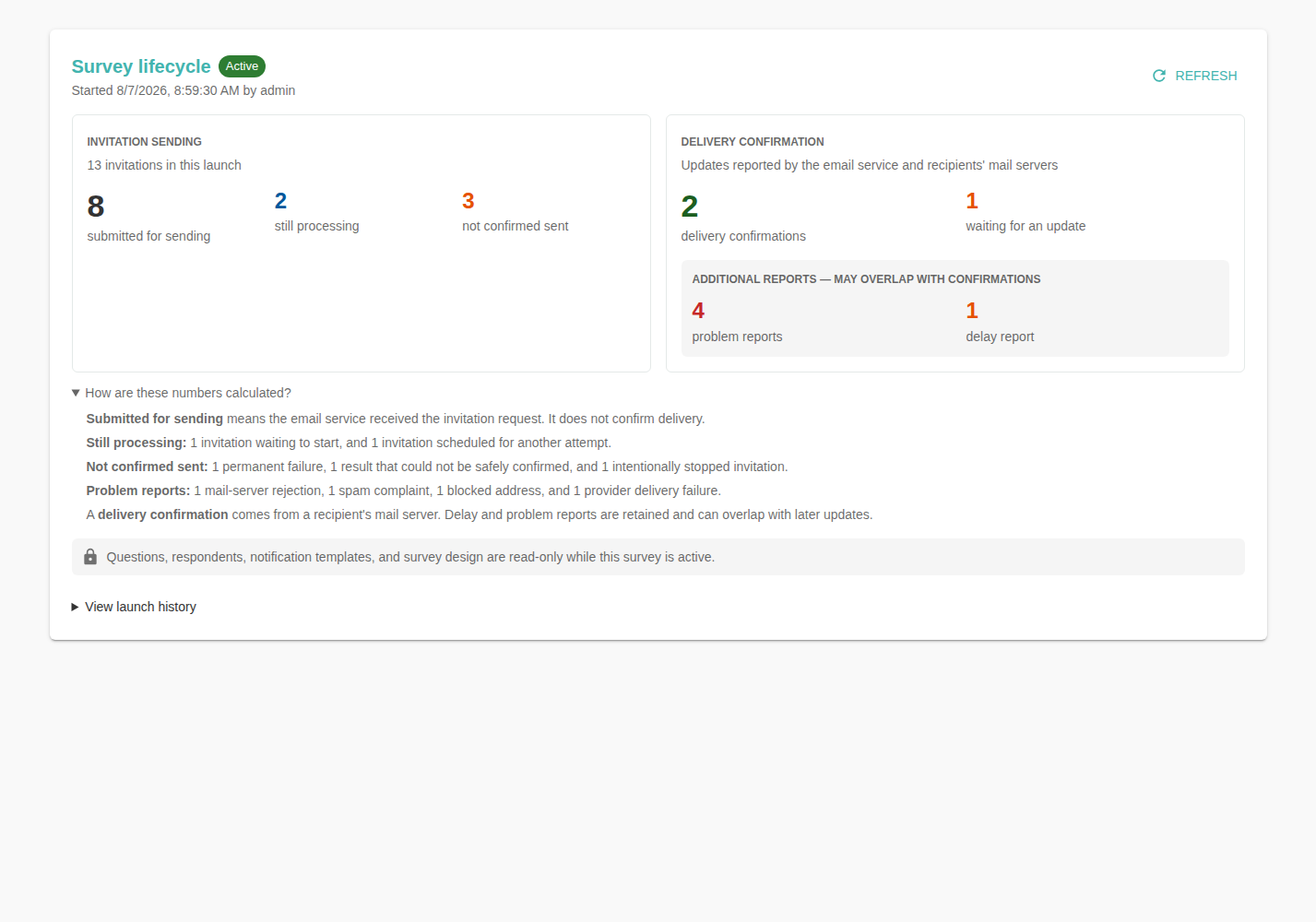
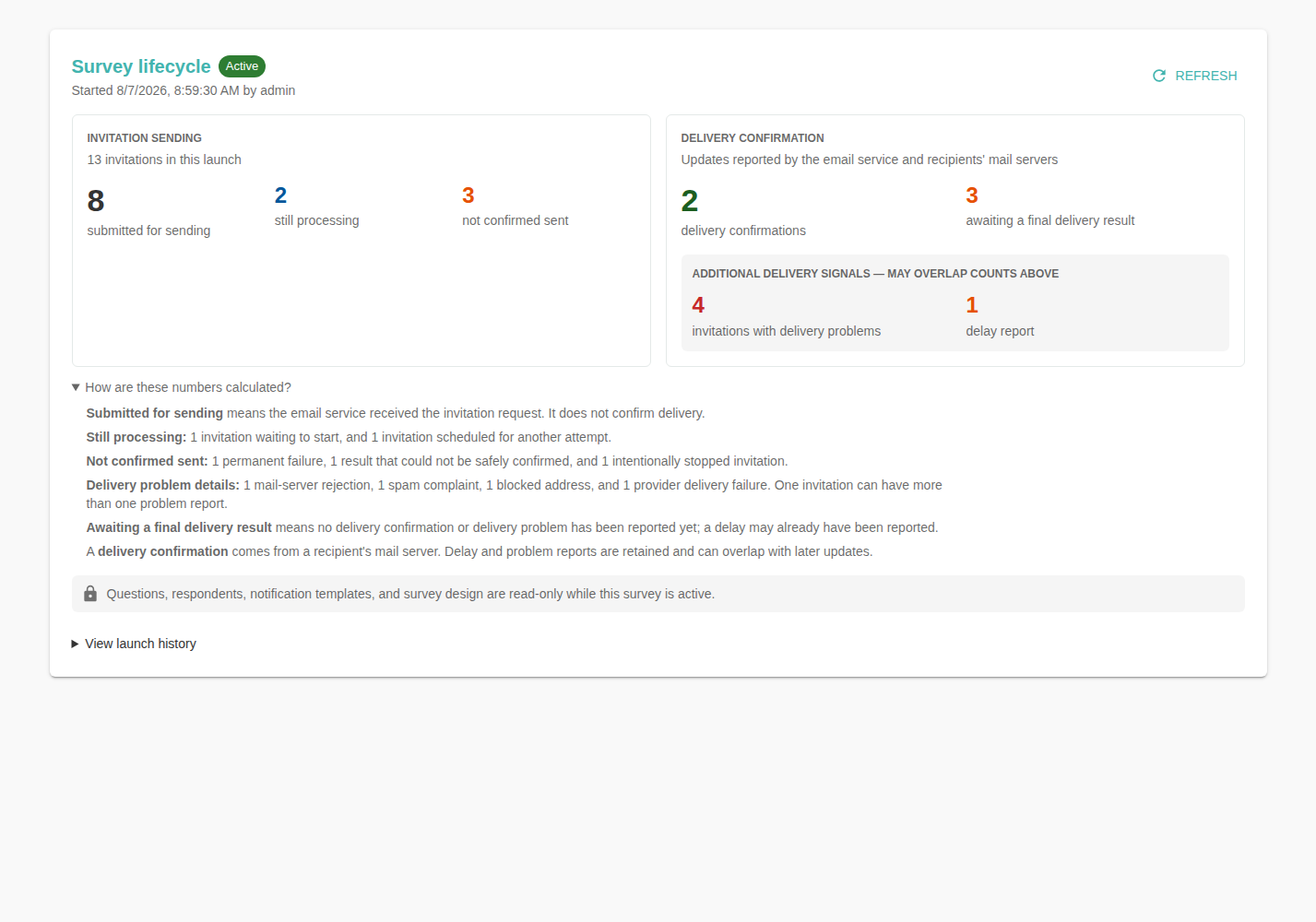
Harden delivery summaries after adversarial review

diff --git a/dashboard/src/components/SurveyLifecyclePanel.js b/dashboard/src/components/SurveyLifecyclePanel.js
@@ -20,7 +20,7 @@ const Metric = ({ value, label, singularLabel, emphasis = false, color = 'text.p
   const displayedLabel = value === 1 && singularLabel ? singularLabel : label;
   return (
     <Box aria-label={`${value} ${displayedLabel}`} sx={{ minWidth: 0 }}>
-      <Typography variant={emphasis ? 'h4' : 'h5'} color={color} sx={{ fontWeight: 700, lineHeight: 1.1 }}>{value}</Typography>
+      <Typography component="p" variant={emphasis ? 'h4' : 'h5'} color={color} sx={{ fontWeight: 700, lineHeight: 1.1 }}>{value}</Typography>
       <Typography variant="body2" color="text.secondary" sx={{ mt: 0.5 }}>{displayedLabel}</Typography>
     </Box>
   );
@@ -28,7 +28,7 @@ const Metric = ({ value, label, singularLabel, emphasis = false, color = 'text.p
 
 const SummaryCard = ({ title, supporting, children, ariaLabel }) => (
   <Paper component="section" aria-label={ariaLabel} variant="outlined" sx={{ p: 2, minWidth: 0 }}>
-    <Typography variant="overline" color="text.secondary" sx={{ fontWeight: 700, lineHeight: 1.5 }}>{title}</Typography>
+    <Typography component="h3" variant="overline" color="text.secondary" sx={{ display: 'block', fontWeight: 700, lineHeight: 1.5 }}>{title}</Typography>
     <Typography variant="body2" color="text.secondary" sx={{ mt: 0.5 }}>{supporting}</Typography>
     {children}
   </Paper>
@@ -60,7 +60,8 @@ const PlainLanguageBreakdown = ({ counts, outcomes }) => {
       <Typography variant="body2"><strong>Submitted for sending</strong> means the email service received the invitation request. It does not confirm delivery.</Typography>
       <Typography variant="body2" sx={{ mt: 0.75 }}><strong>Still processing:</strong> {processing.length ? joinDescriptions(processing) : 'none'}.</Typography>
       <Typography variant="body2" sx={{ mt: 0.75 }}><strong>Not confirmed sent:</strong> {notConfirmed.length ? joinDescriptions(notConfirmed) : 'none'}.</Typography>
-      <Typography variant="body2" sx={{ mt: 0.75 }}><strong>Problem reports:</strong> {problems.length ? joinDescriptions(problems) : 'none'}.</Typography>
+      <Typography variant="body2" sx={{ mt: 0.75 }}><strong>Delivery problem details:</strong> {problems.length ? joinDescriptions(problems) : 'none'}. One invitation can have more than one problem report.</Typography>
+      <Typography variant="body2" sx={{ mt: 0.75 }}><strong>Awaiting a final delivery result</strong> means no delivery confirmation or delivery problem has been reported yet; a delay may already have been reported.</Typography>
       <Typography variant="body2" sx={{ mt: 0.75 }}>A <strong>delivery confirmation</strong> comes from a recipient's mail server. Delay and problem reports are retained and can overlap with later updates.</Typography>
     </Box>
   );
@@ -132,7 +133,7 @@ const SurveyLifecyclePanel = ({ survey, onSurveyRefresh, refreshToken = 0 }) => 
   const latest = visibleLaunches[0] || survey.latestLaunch || survey.latest_launch;
   const counts = launchCounts(latest);
   const outcomes = providerCounts(latest);
-  const adverse = outcomes.bounced + outcomes.complained + outcomes.suppressed + outcomes.providerFailed;
+  const adverse = outcomes.problems;
   const inProgress = counts.pending + counts.leased + counts.retryWait;
   const manualRefresh = () => setManualRefreshToken((value) => value + 1);
 
@@ -141,7 +142,7 @@ const SurveyLifecyclePanel = ({ survey, onSurveyRefresh, refreshToken = 0 }) => 
       <Stack direction={{ xs: 'column', sm: 'row' }} justifyContent="space-between" spacing={2}>
         <Box>
           <Stack direction="row" alignItems="center" spacing={1}>
-            <Typography variant="h6">Survey lifecycle</Typography>
+            <Typography component="h2" variant="h6">Survey lifecycle</Typography>
             <LifecycleChip status={lifecycleStatus(survey)} />
           </Stack>
           <Typography variant="body2" color="text.secondary">
@@ -162,7 +163,7 @@ const SurveyLifecyclePanel = ({ survey, onSurveyRefresh, refreshToken = 0 }) => 
             supporting={`${counts.target} invitations in this launch`}
             ariaLabel="Invitation sending summary"
           >
-            <Box sx={{ display: 'grid', gridTemplateColumns: 'repeat(3, minmax(0, 1fr))', gap: 2, mt: 2 }}>
+            <Box sx={{ display: 'grid', gridTemplateColumns: { xs: '1fr', sm: 'repeat(3, minmax(0, 1fr))' }, gap: 2, mt: 2 }}>
               <Metric value={counts.accepted} label="submitted for sending" emphasis />
               <Metric value={inProgress} label="still processing" color={inProgress > 0 ? 'info.dark' : 'text.primary'} />
               <Metric value={counts.failed + counts.uncertain + counts.cancelled} label="not confirmed sent" color={counts.failed + counts.uncertain + counts.cancelled > 0 ? 'warning.dark' : 'text.primary'} />
@@ -174,14 +175,14 @@ const SurveyLifecyclePanel = ({ survey, onSurveyRefresh, refreshToken = 0 }) => 
             supporting="Updates reported by the email service and recipients' mail servers"
             ariaLabel="Delivery confirmation summary"
           >
-            <Box sx={{ display: 'grid', gridTemplateColumns: 'repeat(2, minmax(0, 1fr))', gap: 3, mt: 2 }}>
+            <Box sx={{ display: 'grid', gridTemplateColumns: { xs: '1fr', sm: 'repeat(2, minmax(0, 1fr))' }, gap: 3, mt: 2 }}>
               <Metric value={outcomes.delivered} label="delivery confirmations" singularLabel="delivery confirmation" emphasis color={outcomes.delivered > 0 ? 'success.dark' : 'text.primary'} />
-              <Metric value={outcomes.acceptedUnverified} label="waiting for an update" color={outcomes.acceptedUnverified > 0 ? 'warning.dark' : 'text.primary'} />
+              <Metric value={outcomes.waiting} label="awaiting a final delivery result" color={outcomes.waiting > 0 ? 'warning.dark' : 'text.primary'} />
             </Box>
             <Box sx={{ mt: 2, p: 1.5, borderRadius: 1, bgcolor: 'action.hover' }}>
-              <Typography variant="caption" color="text.secondary" sx={{ display: 'block', fontWeight: 700 }}>ADDITIONAL REPORTS — MAY OVERLAP WITH CONFIRMATIONS</Typography>
-              <Box sx={{ display: 'grid', gridTemplateColumns: 'repeat(2, minmax(0, 1fr))', gap: 3, mt: 1.25 }}>
-                <Metric value={adverse} label="problem reports" singularLabel="problem report" color={adverse > 0 ? 'error.dark' : 'text.primary'} />
+              <Typography variant="caption" color="text.secondary" sx={{ display: 'block', fontWeight: 700 }}>ADDITIONAL DELIVERY SIGNALS — MAY OVERLAP COUNTS ABOVE</Typography>
+              <Box sx={{ display: 'grid', gridTemplateColumns: { xs: '1fr', sm: 'repeat(2, minmax(0, 1fr))' }, gap: 3, mt: 1.25 }}>
+                <Metric value={adverse} label="invitations with delivery problems" singularLabel="invitation with a delivery problem" color={adverse > 0 ? 'error.dark' : 'text.primary'} />
                 <Metric value={outcomes.delayed} label="delay reports" singularLabel="delay report" color={outcomes.delayed > 0 ? 'warning.dark' : 'text.primary'} />
               </Box>
             </Box>
@@ -190,6 +191,9 @@ const SurveyLifecyclePanel = ({ survey, onSurveyRefresh, refreshToken = 0 }) => 
         <Box component="details" aria-label="Current launch explanation" sx={{ mt: 1.5, color: 'text.secondary', '& summary': { cursor: 'pointer', width: 'fit-content' } }}>
           <Typography component="summary" variant="body2">How are these numbers calculated?</Typography>
           <PlainLanguageBreakdown counts={counts} outcomes={outcomes} />
+        </Box>
+        <Box role="status" aria-live="polite" aria-atomic="true" sx={{ position: 'absolute', width: '1px', height: '1px', p: 0, m: -1, overflow: 'hidden', clip: 'rect(0 0 0 0)', whiteSpace: 'nowrap', border: 0 }}>
+          Invitation update: {counts.accepted} submitted for sending, {inProgress} still processing, {counts.failed + counts.uncertain + counts.cancelled} not confirmed sent. Delivery update: {countLabel(outcomes.delivered, 'confirmation')}, {countLabel(outcomes.waiting, 'invitation awaiting a final result', 'invitations awaiting a final result')}, {countLabel(adverse, 'invitation with a delivery problem', 'invitations with delivery problems')}, {countLabel(outcomes.delayed, 'delay report')}.
         </Box>
       </Box>}
 
@@ -206,7 +210,7 @@ const SurveyLifecyclePanel = ({ survey, onSurveyRefresh, refreshToken = 0 }) => 
           {visibleLaunches.map((launch, index) => {
             const rowCounts = launchCounts(launch);
             const rowOutcomes = providerCounts(launch);
-            const rowAdverse = rowOutcomes.bounced + rowOutcomes.complained + rowOutcomes.suppressed + rowOutcomes.providerFailed;
+            const rowAdverse = rowOutcomes.problems;
             return (
               <Paper component="details" variant="outlined" key={launch.id || launch.launchId || index} sx={{ p: 1.5, '& summary': { cursor: 'pointer' } }}>
                 <Typography component="summary" variant="body2" fontWeight={600}>
@@ -214,13 +218,13 @@ const SurveyLifecyclePanel = ({ survey, onSurveyRefresh, refreshToken = 0 }) => 
                 </Typography>
                 <Box sx={{ mt: 1.5, p: 1.5, borderRadius: 1, bgcolor: 'action.hover' }}>
                   <Typography variant="caption" color="text.secondary" sx={{ fontWeight: 700 }}>DELIVERY UPDATES</Typography>
-                  <Box sx={{ display: 'grid', gridTemplateColumns: { xs: 'repeat(2, minmax(0, 1fr))', md: 'repeat(4, minmax(0, 1fr))' }, gap: 2, mt: 1 }}>
+                  <Box sx={{ display: 'grid', gridTemplateColumns: { xs: '1fr', sm: 'repeat(2, minmax(0, 1fr))', md: 'repeat(4, minmax(0, 1fr))' }, gap: 2, mt: 1 }}>
                     <Metric value={rowOutcomes.delivered} label="delivery confirmations" singularLabel="delivery confirmation" />
-                    <Metric value={rowOutcomes.acceptedUnverified} label="waiting for an update" />
-                    <Metric value={rowAdverse} label="problem reports" singularLabel="problem report" />
+                    <Metric value={rowOutcomes.waiting} label="awaiting a final delivery result" />
+                    <Metric value={rowAdverse} label="invitations with delivery problems" singularLabel="invitation with a delivery problem" />
                     <Metric value={rowOutcomes.delayed} label="delay reports" singularLabel="delay report" />
                   </Box>
-                  <Typography variant="caption" color="text.secondary" sx={{ display: 'block', mt: 1 }}>Problem and delay reports can overlap with confirmations.</Typography>
+                  <Typography variant="caption" color="text.secondary" sx={{ display: 'block', mt: 1 }}>One invitation can have multiple problem or delay reports, and those reports can overlap other delivery update counts.</Typography>
                 </Box>
                 <PlainLanguageBreakdown counts={rowCounts} outcomes={rowOutcomes} />
               </Paper>

diff --git a/dashboard/src/components/SurveyTable.js b/dashboard/src/components/SurveyTable.js
@@ -39,16 +39,16 @@ const SurveyTable = ({
         const latest = row.latestLaunch || row.latest_launch;
         if (!latest) return <Typography variant="body2" color="text.secondary">Not launched</Typography>;
         const counts = launchCounts(latest);
-        const active = counts.pending + counts.leased + counts.retryWait;
-        const issues = counts.failed + counts.uncertain + counts.cancelled;
+        const processing = counts.pending + counts.leased + counts.retryWait;
+        const notConfirmed = counts.failed + counts.uncertain + counts.cancelled;
         const details = `${counts.target} targets: ${counts.pending} pending, ${counts.leased} sending, ${counts.retryWait} retrying, ${counts.accepted} accepted, ${counts.failed} failed, ${counts.uncertain} uncertain, ${counts.cancelled} cancelled.`;
         return <Tooltip title={details} arrow>
           <Stack spacing={0.25} justifyContent="center" aria-label={details} tabIndex={hasFocus ? 0 : -1} sx={{ minWidth: 0 }}>
-            <Typography variant="body2" fontWeight={600} noWrap>{counts.accepted} / {counts.target} accepted</Typography>
+            <Typography variant="body2" fontWeight={600} noWrap>{counts.accepted} / {counts.target} submitted</Typography>
             <Stack direction="row" spacing={0.5}>
-              {active > 0 && <Chip size="small" variant="outlined" color="info" label={`${active} active`} sx={{ height: 20 }} />}
-              {issues > 0 && <Chip size="small" variant="outlined" color="warning" label={`${issues} ${issues === 1 ? 'issue' : 'issues'}`} sx={{ height: 20 }} />}
-              {active === 0 && issues === 0 && <Chip size="small" variant="outlined" color="success" label="Complete" sx={{ height: 20 }} />}
+              {processing > 0 && <Chip size="small" variant="outlined" color="info" label={`${processing} processing`} sx={{ height: 20 }} />}
+              {notConfirmed > 0 && <Chip size="small" variant="outlined" color="warning" label={`${notConfirmed} not confirmed`} sx={{ height: 20 }} />}
+              {processing === 0 && notConfirmed === 0 && <Chip size="small" variant="outlined" color="success" label="Complete" sx={{ height: 20 }} />}
             </Stack>
           </Stack>
         </Tooltip>;
@@ -64,20 +64,16 @@ const SurveyTable = ({
         if (!latest) return <Typography variant="body2" color="text.secondary">No outcomes</Typography>;
         const counts = providerCounts(latest);
         const dispatch = launchCounts(latest);
-        const adverse = counts.bounced + counts.complained + counts.suppressed + counts.providerFailed;
-        const details = `${counts.sent} provider accepted, ${counts.delivered} delivered, ${counts.delayed} delayed, ${counts.bounced} bounced, ${counts.complained} complained, ${counts.suppressed} suppressed, ${counts.providerFailed} provider failed, ${counts.acceptedUnverified} accepted and unverified.`;
+        const adverse = counts.problems;
+        const details = `${counts.delivered} delivery confirmations, ${counts.waiting} awaiting a final result, ${counts.problems} ${counts.problems === 1 ? 'invitation' : 'invitations'} with delivery problems; ${counts.sent} provider accepted, ${counts.delayed} delayed, ${counts.delayed} delayed, ${counts.bounced} bounced, ${counts.complained} complained, ${counts.suppressed} suppressed, ${counts.providerFailed} provider failed, ${counts.acceptedUnverified} accepted and unverified.`;
         return <Tooltip title={details} arrow>
           <Stack spacing={0.25} justifyContent="center" aria-label={details} tabIndex={hasFocus ? 0 : -1} sx={{ minWidth: 0 }}>
-            <Typography variant="body2" fontWeight={600} noWrap>{counts.delivered} delivered</Typography>
+            <Typography variant="body2" fontWeight={600} noWrap>{counts.delivered} confirmed delivered</Typography>
             {adverse > 0
-              ? <Chip size="small" variant="outlined" color="warning" label={`${adverse} ${adverse === 1 ? 'issue' : 'issues'}`} sx={{ height: 20, width: 'fit-content' }} />
-              : counts.delayed > 0
-                ? <Chip size="small" variant="outlined" color="info" label={`${counts.delayed} delayed`} sx={{ height: 20, width: 'fit-content' }} />
-                : counts.acceptedUnverified > 0
-                  ? <Chip size="small" variant="outlined" label={`${counts.acceptedUnverified} unverified`} sx={{ height: 20, width: 'fit-content' }} />
-                  : counts.sent > 0
-                    ? <Chip size="small" variant="outlined" label={`${counts.sent} provider accepted`} sx={{ height: 20, width: 'fit-content' }} />
-                    : <Typography variant="caption" color="text.secondary">{counts.delivered > 0 ? 'No issues reported' : dispatch.accepted > 0 ? 'Awaiting outcomes' : 'No provider activity'}</Typography>}
+              ? <Chip size="small" variant="outlined" color="warning" label={`${adverse} with ${adverse === 1 ? 'a problem' : 'problems'}`} sx={{ height: 20, width: 'fit-content' }} />
+              : counts.waiting > 0
+                ? <Chip size="small" variant="outlined" color="info" label={`${counts.waiting} awaiting final result`} sx={{ height: 20, width: 'fit-content' }} />
+                : <Typography variant="caption" color="text.secondary">{counts.delivered > 0 ? 'No problems reported' : dispatch.accepted > 0 ? 'Awaiting delivery updates' : 'No provider activity'}</Typography>}
           </Stack>
         </Tooltip>;
       },

diff --git a/dashboard/src/components/SurveyLifecyclePanel.test.js b/dashboard/src/components/SurveyLifecyclePanel.test.js
@@ -32,13 +32,13 @@ test('normalizes additive provider counts, timestamps, and old accepted deliveri
     accepted_count: '5',
     provider_outcome_counts: {
       sent_count: '4', delivered_count: '2', delayed_count: 1, bounced_count: '1',
-      complained_count: 1, suppressed_count: 0, provider_failed_count: '1', accepted_unverified_count: '1',
+      complained_count: 1, suppressed_count: 0, provider_failed_count: '1', provider_problem_count: '2', provider_waiting_count: '3', accepted_unverified_count: '1',
     },
   })).toEqual({
     sent: 4, delivered: 2, delayed: 1, bounced: 1, complained: 1,
-    suppressed: 0, providerFailed: 1, acceptedUnverified: 1,
+    suppressed: 0, providerFailed: 1, problems: 2, waiting: 3, acceptedUnverified: 1,
   });
-  expect(providerCounts({ acceptedCount: 3 }).acceptedUnverified).toBe(3);
+  expect(providerCounts({ acceptedCount: 3 })).toMatchObject({ acceptedUnverified: 3, waiting: 3 });
 
   const delivery = {
     dispatch_status: 'accepted',
@@ -73,8 +73,8 @@ test('renders provider outcomes separately without changing dispatch arithmetic'
   expect(screen.getByLabelText('3 submitted for sending')).toBeInTheDocument();
   const deliverySummary = screen.getByRole('region', { name: 'Delivery confirmation summary' });
   expect(within(deliverySummary).getByLabelText('2 delivery confirmations')).toBeInTheDocument();
-  expect(within(deliverySummary).getByLabelText('1 problem report')).toBeInTheDocument();
-  expect(within(deliverySummary).getByLabelText('1 waiting for an update')).toBeInTheDocument();
+  expect(within(deliverySummary).getByLabelText('1 invitation with a delivery problem')).toBeInTheDocument();
+  expect(within(deliverySummary).getByLabelText('1 awaiting a final delivery result')).toBeInTheDocument();
   expect(deliverySummary).not.toHaveTextContent('3 delivery confirmations');
 });
 
@@ -85,7 +85,8 @@ test('uses plain-language aggregates instead of exposing operational keyword lis
     failed_count: 1, uncertain_count: 1, cancelled_count: 1,
     provider_outcome_counts: {
       delivered_count: 2, delayed_count: 1, bounced_count: 1, complained_count: 1,
-      suppressed_count: 1, provider_failed_count: 1, accepted_unverified_count: 1,
+      suppressed_count: 1, provider_failed_count: 1, provider_problem_count: 3,
+      provider_waiting_count: 2, accepted_unverified_count: 1,
     },
   }] } });
   render(<SurveyLifecyclePanel survey={{ id: 'survey-1', name: 'Delivery demo', lifecycleStatus: 'active' }} />);
@@ -99,10 +100,14 @@ test('uses plain-language aggregates instead of exposing operational keyword lis
 
   const delivery = screen.getByRole('region', { name: 'Delivery confirmation summary' });
   expect(within(delivery).getByLabelText('2 delivery confirmations')).toBeInTheDocument();
-  expect(within(delivery).getByLabelText('4 problem reports')).toBeInTheDocument();
-  expect(within(delivery).getByLabelText('1 waiting for an update')).toBeInTheDocument();
+  expect(within(delivery).getByLabelText('3 invitations with delivery problems')).toBeInTheDocument();
+  expect(within(delivery).getByLabelText('2 awaiting a final delivery result')).toBeInTheDocument();
   expect(within(delivery).getByLabelText('1 delay report')).toBeInTheDocument();
   expect(delivery).not.toHaveTextContent(/bounced|complained|suppressed|provider failed/i);
+  expect(screen.getByRole('status')).toHaveTextContent('Delivery update: 2 confirmations, 2 invitations awaiting a final result, 3 invitations with delivery problems, 1 delay report.');
+  expect(screen.getByRole('heading', { level: 2, name: 'Survey lifecycle' })).toBeInTheDocument();
+  expect(screen.getByRole('heading', { level: 3, name: 'Invitation sending' })).toBeInTheDocument();
+  expect(screen.queryByRole('heading', { name: /^\d+$/ })).not.toBeInTheDocument();
 
   const explanation = screen.getByLabelText('Current launch explanation');
   fireEvent.click(within(explanation).getByText('How are these numbers calculated?'));

diff --git a/api/lifecycle.js b/api/lifecycle.js
@@ -180,6 +180,8 @@ function aggregateSelect(whereSql) {
     count(DISTINCT d.id) FILTER(WHERE d.provider_complained_at IS NOT NULL)::int AS provider_complained_count,
     count(DISTINCT d.id) FILTER(WHERE d.provider_suppressed_at IS NOT NULL)::int AS provider_suppressed_count,
     count(DISTINCT d.id) FILTER(WHERE d.provider_failed_at IS NOT NULL)::int AS provider_failed_count,
+    count(DISTINCT d.id) FILTER(WHERE d.provider_bounced_at IS NOT NULL OR d.provider_complained_at IS NOT NULL OR d.provider_suppressed_at IS NOT NULL OR d.provider_failed_at IS NOT NULL)::int AS provider_problem_count,
+    count(DISTINCT d.id) FILTER(WHERE d.status='accepted' AND d.provider_delivered_at IS NULL AND d.provider_bounced_at IS NULL AND d.provider_complained_at IS NULL AND d.provider_suppressed_at IS NULL AND d.provider_failed_at IS NULL)::int AS provider_waiting_count,
     count(DISTINCT d.id) FILTER(WHERE d.status='accepted' AND d.provider_sent_at IS NULL AND d.provider_delivered_at IS NULL AND d.provider_delayed_at IS NULL AND d.provider_bounced_at IS NULL AND d.provider_complained_at IS NULL AND d.provider_suppressed_at IS NULL AND d.provider_failed_at IS NULL)::int AS accepted_unverified_count,
     min(a.started_at) AS started_at,max(a.finished_at) FILTER(WHERE d.status IN ('accepted','failed','uncertain','cancelled')) AS finished_at,
     CASE
@@ -249,7 +251,7 @@ async function launchSurvey(pool, user, surveyId, { kind = 'initial', idempotenc
     await strictAudit(client,{organizationId:survey.organization_id,actorUserId:user.id,surveyId:survey.id,eventType:'survey.launch_requested',metadata:{launchId:launch.id,targetCount:data.recipients.length}});
     await strictAudit(client,{organizationId:survey.organization_id,actorUserId:user.id,surveyId:survey.id,eventType:'survey.lifecycle_changed',metadata:{from:'draft',to:'active',launchId:launch.id}});
     await client.query('COMMIT');
-    return { id:launch.id,survey_id:survey.id,kind,status:'queued',target_count:data.recipients.length,pending_count:data.recipients.length,leased_count:0,retry_wait_count:0,accepted_count:0,failed_count:0,uncertain_count:0,cancelled_count:0,provider_sent_count:0,provider_delivered_count:0,provider_delayed_count:0,provider_bounced_count:0,provider_complained_count:0,provider_suppressed_count:0,provider_failed_count:0,accepted_unverified_count:0,created_at:launch.created_at,lifecycleStatus:'active',replayed:false };
+    return { id:launch.id,survey_id:survey.id,kind,status:'queued',target_count:data.recipients.length,pending_count:data.recipients.length,leased_count:0,retry_wait_count:0,accepted_count:0,failed_count:0,uncertain_count:0,cancelled_count:0,provider_sent_count:0,provider_delivered_count:0,provider_delayed_count:0,provider_bounced_count:0,provider_complained_count:0,provider_suppressed_count:0,provider_failed_count:0,provider_problem_count:0,provider_waiting_count:0,accepted_unverified_count:0,created_at:launch.created_at,lifecycleStatus:'active',replayed:false };
   } catch (error) { await client.query('ROLLBACK').catch(()=>{}); if (error.code === '23505') throw new LifecycleError(409,'launch_conflict','An initial launch already exists.'); throw error; }
   finally { client.release(); }
 }

diff --git a/dashboard/src/components/surveyLifecycle.js b/dashboard/src/components/surveyLifecycle.js
@@ -53,23 +53,34 @@ export const providerCounts = (launch) => {
     complained: ['complained', 'complainedCount', 'complained_count', 'providerComplained', 'provider_complained', 'providerComplainedCount', 'provider_complained_count'],
     suppressed: ['suppressed', 'suppressedCount', 'suppressed_count', 'providerSuppressed', 'provider_suppressed', 'providerSuppressedCount', 'provider_suppressed_count'],
     providerFailed: ['providerFailed', 'provider_failed', 'providerFailedCount', 'provider_failed_count', 'failedProvider', 'failed_provider'],
+    problems: ['problems', 'problemCount', 'problem_count', 'providerProblem', 'provider_problem', 'providerProblemCount', 'provider_problem_count'],
+    waiting: ['waiting', 'waitingCount', 'waiting_count', 'providerWaiting', 'provider_waiting', 'providerWaitingCount', 'provider_waiting_count'],
     acceptedUnverified: ['acceptedUnverified', 'accepted_unverified', 'acceptedUnverifiedCount', 'accepted_unverified_count', 'unverifiedAccepted', 'unverified_accepted', 'unverifiedAcceptedCount', 'unverified_accepted_count'],
   };
   const raw = (keys) => sources.map((source) => firstValue(source, keys)).find((value) => value !== undefined && value !== null);
   const hasProviderData = Boolean(nested) || Object.values(aliases).flat().some((key) => sources.some((source) => source?.[key] !== undefined && source?.[key] !== null));
   const acceptedUnverified = raw(aliases.acceptedUnverified);
   const nestedFailed = nested && firstValue(nested, ['failed', 'failedCount', 'failed_count']);
+  const bounced = finiteCount(raw(aliases.bounced));
+  const complained = finiteCount(raw(aliases.complained));
+  const suppressed = finiteCount(raw(aliases.suppressed));
+  const providerFailed = finiteCount(nestedFailed ?? raw(aliases.providerFailed));
+  const acceptedFallback = launchCounts(launch).accepted;
 
   return {
     sent: finiteCount(raw(aliases.sent)),
     delivered: finiteCount(raw(aliases.delivered)),
     delayed: finiteCount(raw(aliases.delayed)),
-    bounced: finiteCount(raw(aliases.bounced)),
-    complained: finiteCount(raw(aliases.complained)),
-    suppressed: finiteCount(raw(aliases.suppressed)),
-    providerFailed: finiteCount(nestedFailed ?? raw(aliases.providerFailed)),
+    bounced,
+    complained,
+    suppressed,
+    providerFailed,
+    problems: raw(aliases.problems) === undefined ? bounced + complained + suppressed + providerFailed : finiteCount(raw(aliases.problems)),
+    waiting: raw(aliases.waiting) === undefined
+      ? (acceptedUnverified === undefined ? (hasProviderData ? 0 : acceptedFallback) : finiteCount(acceptedUnverified))
+      : finiteCount(raw(aliases.waiting)),
     acceptedUnverified: acceptedUnverified === undefined
-      ? (hasProviderData ? 0 : launchCounts(launch).accepted)
+      ? (hasProviderData ? 0 : acceptedFallback)
       : finiteCount(acceptedUnverified),
   };
 };

diff --git a/api/server.js b/api/server.js
@@ -3037,6 +3037,8 @@ app.get('/api/surveys', requireAuth, async (req, res) => {
            'providerComplainedCount', count(*) FILTER (WHERE d.provider_complained_at IS NOT NULL),
            'providerSuppressedCount', count(*) FILTER (WHERE d.provider_suppressed_at IS NOT NULL),
            'providerFailedCount', count(*) FILTER (WHERE d.provider_failed_at IS NOT NULL),
+           'providerProblemCount', count(*) FILTER (WHERE d.provider_bounced_at IS NOT NULL OR d.provider_complained_at IS NOT NULL OR d.provider_suppressed_at IS NOT NULL OR d.provider_failed_at IS NOT NULL),
+           'providerWaitingCount', count(*) FILTER (WHERE d.status='accepted' AND d.provider_delivered_at IS NULL AND d.provider_bounced_at IS NULL AND d.provider_complained_at IS NULL AND d.provider_suppressed_at IS NULL AND d.provider_failed_at IS NULL),
            'acceptedUnverifiedCount', count(*) FILTER (WHERE d.status='accepted' AND d.provider_sent_at IS NULL AND d.provider_delivered_at IS NULL AND d.provider_delayed_at IS NULL AND d.provider_bounced_at IS NULL AND d.provider_complained_at IS NULL AND d.provider_suppressed_at IS NULL AND d.provider_failed_at IS NULL)
          ) FROM survey_launches l JOIN survey_email_deliveries d ON d.launch_id=l.id WHERE l.survey_id=s.id GROUP BY l.id,l.created_at ORDER BY l.created_at DESC LIMIT 1) AS latest_launch,
          COUNT(r.respondent_id) AS number_of_respondents,
@@ -3069,6 +3071,8 @@ app.get('/api/surveys', requireAuth, async (req, res) => {
            'providerComplainedCount', count(*) FILTER (WHERE d.provider_complained_at IS NOT NULL),
            'providerSuppressedCount', count(*) FILTER (WHERE d.provider_suppressed_at IS NOT NULL),
            'providerFailedCount', count(*) FILTER (WHERE d.provider_failed_at IS NOT NULL),
+           'providerProblemCount', count(*) FILTER (WHERE d.provider_bounced_at IS NOT NULL OR d.provider_complained_at IS NOT NULL OR d.provider_suppressed_at IS NOT NULL OR d.provider_failed_at IS NOT NULL),
+           'providerWaitingCount', count(*) FILTER (WHERE d.status='accepted' AND d.provider_delivered_at IS NULL AND d.provider_bounced_at IS NULL AND d.provider_complained_at IS NULL AND d.provider_suppressed_at IS NULL AND d.provider_failed_at IS NULL),
            'acceptedUnverifiedCount', count(*) FILTER (WHERE d.status='accepted' AND d.provider_sent_at IS NULL AND d.provider_delivered_at IS NULL AND d.provider_delayed_at IS NULL AND d.provider_bounced_at IS NULL AND d.provider_complained_at IS NULL AND d.provider_suppressed_at IS NULL AND d.provider_failed_at IS NULL)
          ) FROM survey_launches l JOIN survey_email_deliveries d ON d.launch_id=l.id WHERE l.survey_id=s.id GROUP BY l.id,l.created_at ORDER BY l.created_at DESC LIMIT 1) AS latest_launch,
          COUNT(r.respondent_id) AS number_of_respondents,

diff --git a/dashboard/src/components/SurveyTable.test.js b/dashboard/src/components/SurveyTable.test.js
@@ -24,19 +24,19 @@ test('keeps survey dispatch acceptance separate from provider outcomes', () => {
   render(<SurveyTable rows={[{
     id: 'survey-1', name: 'Survey', latestLaunch: {
       targetCount: 4, acceptedCount: 4,
-      providerOutcomeCounts: { deliveredCount: 2, bouncedCount: 1, acceptedUnverifiedCount: 2 },
+      providerOutcomeCounts: { deliveredCount: 2, bouncedCount: 1, providerProblemCount: 1, providerWaitingCount: 3, acceptedUnverifiedCount: 2 },
     },
   }]} selectRow={() => {}} />);
 
   const dispatch = screen.getByRole('region', { name: 'Invitation dispatch' });
-  expect(dispatch).toHaveTextContent('4 / 4 accepted');
+  expect(dispatch).toHaveTextContent('4 / 4 submitted');
   expect(dispatch).toHaveTextContent('Complete');
 
   const provider = screen.getByRole('region', { name: 'Provider outcomes' });
-  expect(provider).toHaveTextContent('2 delivered');
-  expect(provider).toHaveTextContent('1 issue');
+  expect(provider).toHaveTextContent('2 confirmed delivered');
+  expect(provider).toHaveTextContent('1 with a problem');
   expect(provider).not.toHaveTextContent('accepted / unverified');
-  const details = screen.getByLabelText(/0 provider accepted, 2 delivered, 0 delayed, 1 bounced/);
+  const details = screen.getByLabelText(/2 delivery confirmations, 3 awaiting a final result, 1 invitation with delivery problems/);
   expect(details).toBeInTheDocument();
   expect(details).toHaveAttribute('tabindex', '0');
 });

diff --git a/api/test/email-delivery.test.js b/api/test/email-delivery.test.js
@@ -80,12 +80,15 @@ test('readiness validates the entire audience and exact normalized template cove
   assert.equal(manyInvalid.blockers.at(-1).code, 'blockers_truncated');
 });
 
-test('launch fingerprint is canonical and aggregate SQL derives mutually exclusive dispatch states', () => {
+test('launch fingerprint is canonical and aggregate SQL derives dispatch and distinct provider summary counts', () => {
   assert.equal(fingerprint({targets:[1,2]}), fingerprint({targets:[1,2]}));
   assert.notEqual(fingerprint({targets:[1,2]}), fingerprint({targets:[2,1]}));
   const sql = aggregateSelect('WHERE l.survey_id=$1');
   for (const state of ['pending','leased','retry_wait','accepted','failed','uncertain','cancelled']) assert.match(sql, new RegExp(state));
   assert.match(sql, /count\(DISTINCT d\.id\)/);
+  assert.match(sql, /AS provider_problem_count/);
+  assert.match(sql, /AS provider_waiting_count/);
+  assert.match(sql, /d\.status='accepted' AND d\.provider_delivered_at IS NULL/);
   assert.doesNotMatch(sql, /UPDATE survey_launches/);
 });
 

diff --git a/api/test/security.test.js b/api/test/security.test.js
@@ -1959,6 +1959,13 @@ test('member management, invite, reset, and audit routes are present with requir
   assert.match(lifecycleSource, /'survey\.archived'/);
 });
 
+test('survey list compact aggregates include distinct provider summary counts for both role paths', () => {
+  const serverSource = fs.readFileSync(path.join(__dirname, '../server.js'), 'utf8');
+  assert.equal((serverSource.match(/'providerProblemCount'/g) || []).length, 2);
+  assert.equal((serverSource.match(/'providerWaitingCount'/g) || []).length, 2);
+  assert.equal((serverSource.match(/d\.status='accepted' AND d\.provider_delivered_at IS NULL/g) || []).length, 2);
+});
+
 test('/api/testEmail disables the legacy untracked respondent reminder path', async (t) => {
   const originalQuery = pool.query;
   const originalConnect = pool.connect;
